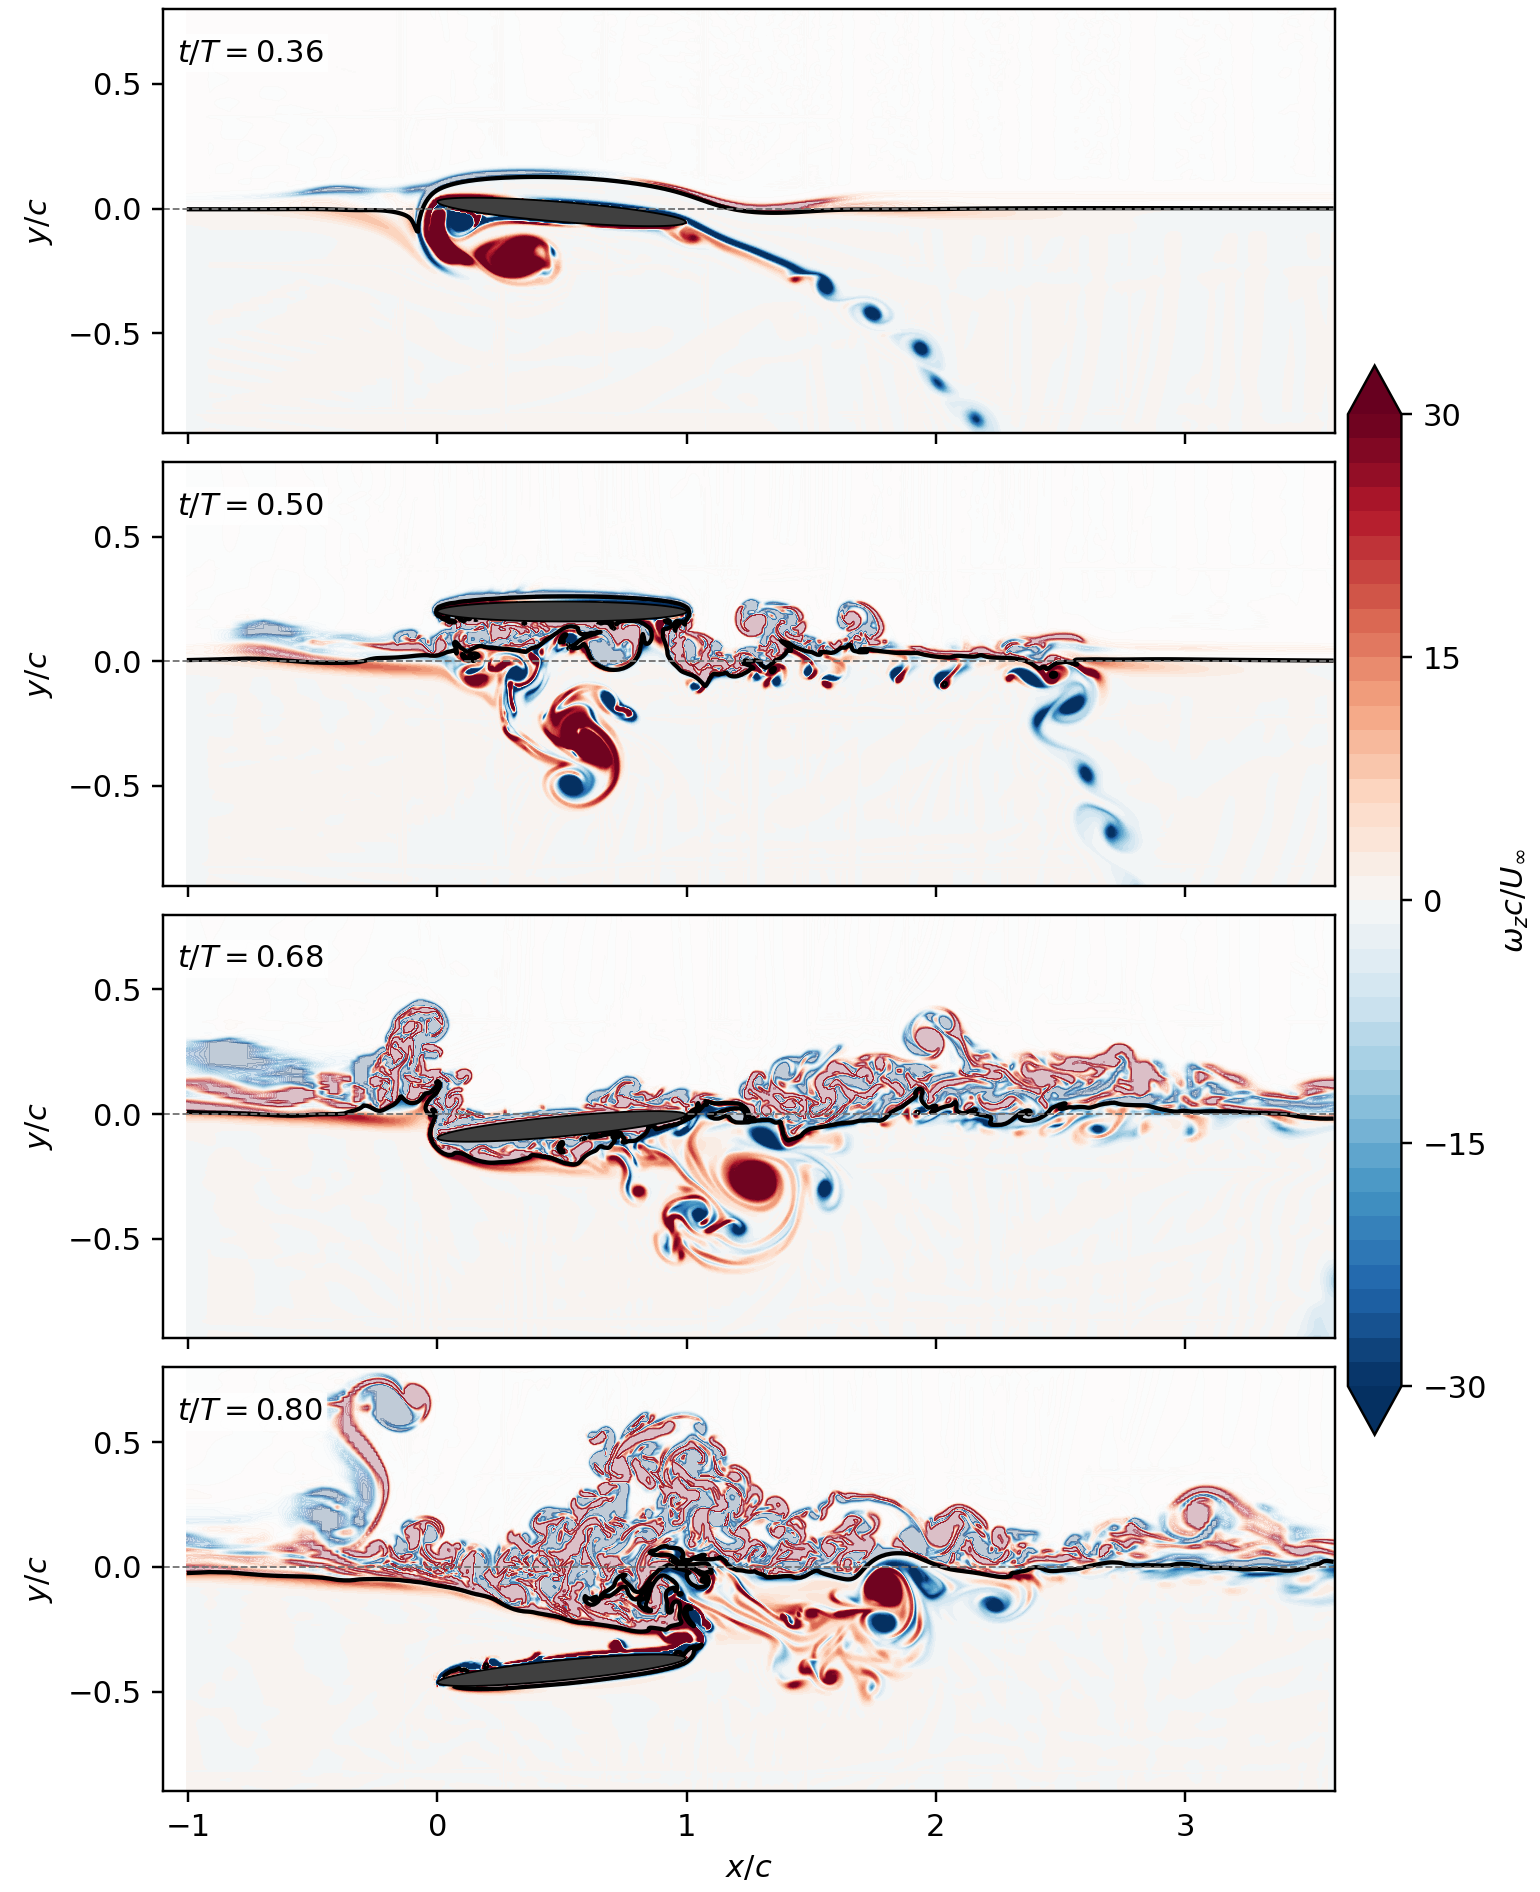
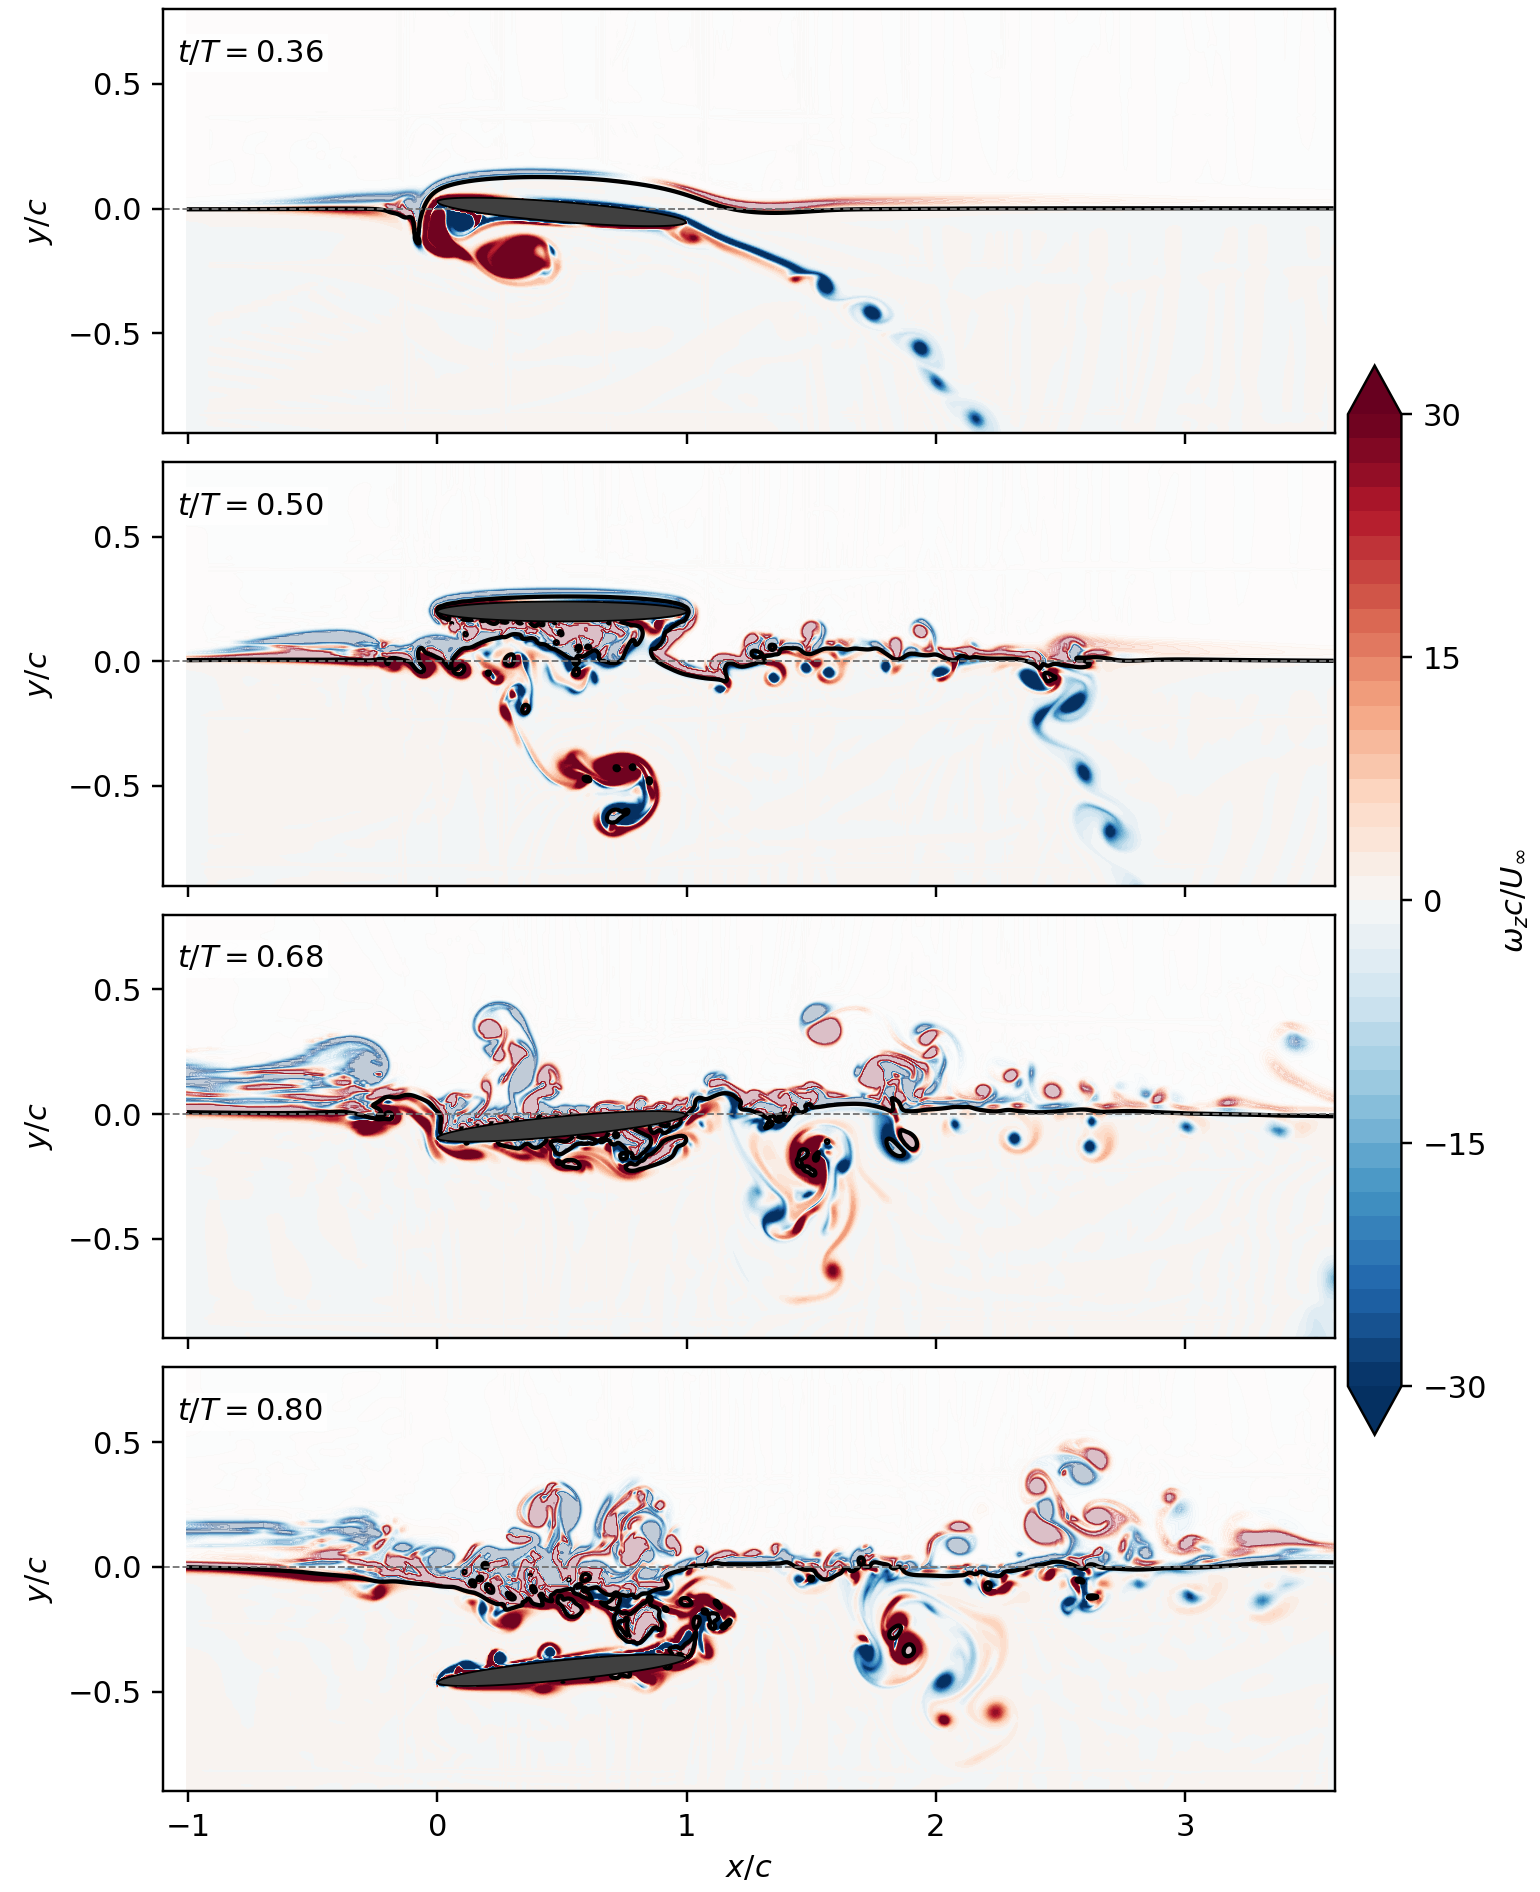
Showcase: ACDI result for the full first cycle; lift includes still-water buoyancy

diff --git a/README.md b/README.md
@@ -34,6 +34,7 @@ The equations are nondimensionalised with the water properties, the chord *c* an
 What I developed on top of the existing single-phase immersed-boundary solver:
 
 - **Interface capturing.** I added algebraic VOF transport of φ, with a fifth-order WENO scheme written for non-uniform Cartesian grids. The same scheme is used for momentum convection.
+- **Interface regularisation (ACDI).** I added the accurate conservative diffuse-interface (ACDI) regularisation of Jain (2022), which keeps the interface about one cell thick and stops it from breaking up into a spray of partly filled cells. The mass flux that the regularisation adds is also carried in the momentum equation, so mass and momentum are transported consistently.
 - **Variable-density projection.** I wrote a fractional-step method with a density-weighted pressure Poisson equation. It is face-consistent: the face density used in the Poisson operator and in the velocity correction is the same. I also added a reduced-pressure treatment of gravity, so the hydrostatic part of the pressure is removed.
 - **Surface tension.** I implemented a balanced-force continuum-surface-force (CSF) model, evaluated at the cell faces with the same discrete operators as the pressure correction.
 - **Moving body and contact line.**
@@ -56,6 +57,7 @@ What I developed on top of the existing single-phase immersed-boundary solver:
 | Flow | Re = 10 000, **Fr = 0.2**, We = 1323 |
 | Phases | Density ratio 100 : 1, viscosity ratio 100 : 1 |
 | Contact angle | 70° |
+| Interface | ACDI regularisation, velocity scale Γ = 7 U∞, interface thickness ≈ one cell |
 | Domain / grid | 250c × 95c (2-D); 1000 × 950 non-uniform cells, about 207 cells per chord near the foil and interface |
 | Time step | Δt = 2 × 10⁻⁴ (25 000 steps per flapping cycle) |
 
@@ -69,9 +71,11 @@ What I developed on top of the existing single-phase immersed-boundary solver:
 | t/T | Phase | What happens |
 |---|---|---|
 | **0.36** | Exit | The upper surface has broken through. A thin water film is carried up over the foil, while the leading-edge vortex and a long shear layer stay in the water. |
-| **0.50** | In air | The foil is fully in air at the top of the stroke. The film has broken up into a disturbed surface, and the vortex pair from the upstroke travels down and downstream in the water. |
-| **0.68** | Re-entry | The foil plunges back in and carries a thin layer of air down along its lower surface. A strong vortex is shed behind the trailing edge. |
-| **0.80** | Submerged | The foil is fully back in the water. The surface behind it is drawn down into a trough toward the trailing edge. |
+| **0.50** | In air | The foil is fully in air at the top of the stroke. The film has drained off, leaving a disturbed surface beneath it, and the vortex pair from the upstroke travels down and downstream in the water. |
+| **0.68** | Re-entry | The foil plunges back in and carries pockets of air down along its lower surface. A vortex pair is shed into the water behind the trailing edge. |
+| **0.80** | Submerged | The foil is fully back in the water. The surface above it is pulled down into a trough that ends in an air cavity above the trailing edge. |
+
+In the air, vorticity stays in thin layers close to the surface. Without the ACDI regularisation the interface breaks up into partly filled cells at re-entry and spurious vorticity fills the air above it; with ACDI the air-side enstrophy at re-entry is 55–74% lower.
 
 Individual frames are in [`figures/`](figures/).
 
@@ -81,13 +85,13 @@ Individual frames are in [`figures/`](figures/).
   <img src="figures/force_history.png" width="640" alt="Foil position, thrust and vertical force coefficients versus time">
 </p>
 
-Grey bands mark when the foil is crossing the still-water level. The blue band marks when it is entirely in air.
+Grey bands mark when the foil is crossing the still-water level. The blue band marks when it is entirely in air. C_y includes the buoyancy of the still water, which the reduced-pressure formulation leaves out of the computed pressure force (+3.14 when the foil is fully submerged).
 
-- **Thrust collapses in air.** The thrust coefficient C_T rises to about 0.75 during the submerged upstroke and falls to about −0.1 while the foil is in air. It recovers only after re-entry. The foil makes no useful thrust for about a quarter of the cycle.
-- **Re-entry brings the largest vertical loads.** The vertical force coefficient C_y goes from about −3 in air to about +5 at re-entry, then to about +8 (with spikes to about 11) in the submerged downstroke that follows.
-- **The exit leaves a sharp signature.** As the surface breaks (t/T ≈ 0.38), C_y rises by about 5 within a few hundredths of a cycle.
+- **Thrust collapses in air.** The thrust coefficient C_T rises to about 0.8 at the end of the submerged upstroke and falls to about −0.1 while the foil is in air. It recovers only after re-entry, to 0.5–0.7 in the downstroke. The foil makes almost no thrust for about a quarter of the cycle; the mean over the cycle is C_T = 0.28.
+- **Re-entry brings the largest vertical loads.** The vertical force coefficient C_y goes from about −1.4 on average in air to about +5 at re-entry, then to about +11 (with a spike to 14) in the submerged downstroke that follows.
+- **The exit leaves a sharp signature.** As the lower surface breaks through (t/T ≈ 0.39), C_y jumps by about 3.5 within one hundredth of a cycle.
 
-*These are first-cycle results (t/T = 0–0.87), so they include start-up transients.*
+*These are first-cycle results (t/T = 0–1), so they include start-up transients.*
 
 ---
 
@@ -97,10 +101,10 @@ Grey bands mark when the foil is crossing the still-water level. The blue band m
 
 | Metric | Value |
 |---|---|
-| Liquid-volume change over the run | 8.3 × 10⁻⁶ relative (open domain with inflow and outflow) |
+| Liquid-volume change over the run | 1.0 × 10⁻⁵ relative (open domain with inflow and outflow) |
 | Volume fraction φ in the fluid | Stays within [0, 1] |
-| Maximum CFL | 0.83 |
-| Maximum divergence after projection | 5 × 10⁻⁸ |
+| Maximum CFL | 0.74 |
+| Maximum divergence after projection | 2 × 10⁻⁸ |
 
 <p align="center">
   <img src="figures/liquid_volume.png" width="640" alt="Relative change of liquid volume versus time">
@@ -126,7 +130,7 @@ The liquid volume drifts smoothly, and the drift shows no jump as the foil leave
 |---|---|
 | Machine | **Rockfish** cluster (JHU ARCH), Intel compilers and Intel MPI |
 | Parallelisation | MPI domain decomposition, **96 ranks** on 2 nodes |
-| Cost | About **5.5 s per step** for 0.95 M cells; one 24-hour job advances about 15 600 steps |
+| Cost | About **5.6 s per step** for 0.95 M cells; one 24-hour job advances about 15 000 steps |
 | Bottleneck | The variable-density pressure Poisson solve, about 95% of each step's cost |
 | Workflow | Chains of checkpoint/restart runs across 24-hour jobs, and campaign scripts that run a 7-case Fr × St matrix in parallel |
 
